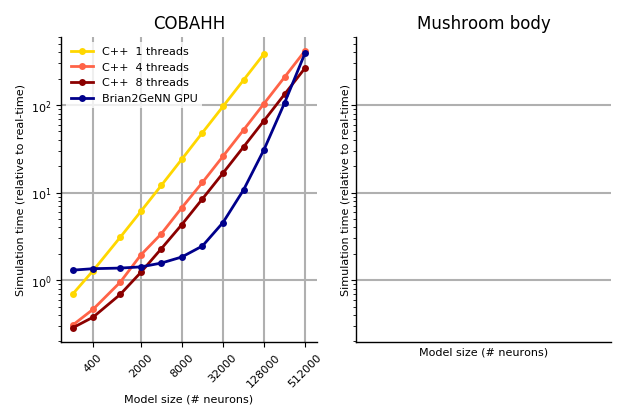
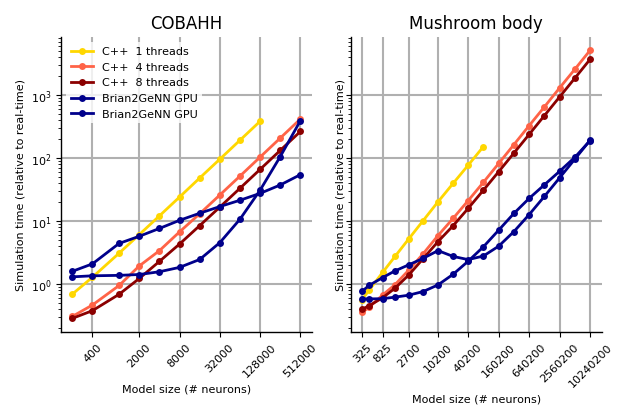
Adapted benchmarks to run genn only and in pre-synaptic parallelization mode. This is a bit messy as I just overwrote the run_all and run_benchmarks_genn scripts with slight modifications. @mstimberg , eventually we might want to clean this up. Needs the most recent expose_blocksize_prefs branch of 

Changed region(s): [[0.0, 0.031, 0.9651, 0.9618], [0.6333, 0.9308, 0.8746, 0.9618]]

diff --git a/plot_benchmarks.py b/plot_benchmarks.py
@@ -14,8 +14,14 @@ directory = None  # replace this or pass the directory as a command line arg
 if directory is None:
     if len(sys.argv) == 2:
         directory = sys.argv[1]
+        compareplot = False
     else:
-        raise ValueError('Need the directory name as an argument')
+        if len(sys.argv) == 3:
+            directory = sys.argv[1]
+            directory2 = sys.argv[2]
+            compareplot= True
+        else:
+            raise ValueError('Need the directory name as an argument')
 
 
 def load_benchmark(directory, fname):
@@ -272,114 +278,169 @@ def plot_detail_comparison(benchmarks):
     return fig
 
 if __name__ == '__main__':
-    COBA_full = load_benchmark(directory, 'benchmarks_COBAHH.txt')
-    Mbody_full = load_benchmark(directory, 'benchmarks_Mbody_example.txt')
+    if not compareplot:
+        COBA_full = load_benchmark(directory, 'benchmarks_COBAHH.txt')
+        Mbody_full = load_benchmark(directory, 'benchmarks_Mbody_example.txt')
+        
+        for with_monitor in [True, False]:
+            monitor_suffix = '' if with_monitor else '_no_monitor'
+            # COBA with linear scaling
+            COBA = mean_and_std_fixed_time(COBA_full, monitor=with_monitor)
+            COBA32 = mean_and_std_fixed_time(COBA_full, monitor=with_monitor,
+                                             float_dtype='float32')
+            # Mushroom body
+            Mbody = mean_and_std_fixed_time(Mbody_full, monitor=False)
+            Mbody32 = mean_and_std_fixed_time(Mbody_full, monitor=False,
+                                              float_dtype='float32')
 
-    for with_monitor in [True, False]:
-        monitor_suffix = '' if with_monitor else '_no_monitor'
+            for COBA_benchmark, Mbody_benchmark, suffix in [(COBA, Mbody, ''),
+                                                            (COBA32, Mbody32, ' single precision')]:
+                # Total time (including compilation)
+                fig, (ax_left, ax_right) = plt.subplots(1, 2, sharey='row',
+                                                        figsize=(6.3, 6.3 * .666))
+                plot_total(COBA_benchmark, ax_left, legend=True)
+                ax_left.set_title('COBAHH%s' % suffix)
+                plot_total(Mbody_benchmark, ax_right, legend=False)
+                ax_right.set_title('Mushroom body%s' % suffix)
+                plt.tight_layout()
+                fig.savefig(os.path.join(directory, 'total_runtime%s%s%s' % (monitor_suffix,
+                                                                             suffix,
+                                                                             FIGURE_EXTENSION)))
+                
+                # Runtime relative to realtime
+                fig, (ax_left, ax_right) = plt.subplots(1, 2, sharey='row',
+                                                        figsize=(6.3, 6.3 * .666))
+                plot_total(COBA_benchmark, ax_left, legend=True, plot_what='duration_run_rel',
+                           axis_label='Simulation time (relative to real-time)')
+                ax_left.set_title('COBAHH')
+                plot_total(Mbody_benchmark, ax_right, legend=False, plot_what='duration_run_rel',
+                           axis_label='Simulation time (relative to real-time)')
+                ax_right.set_title('Mushroom body')
+                plt.tight_layout()
+                fig.savefig(os.path.join(directory, 'simulation_time_only%s%s%s' % (monitor_suffix,
+                                                                                    suffix,
+                                                                                    FIGURE_EXTENSION)))
+
+
+                # TODO: This is a bit redundant...
+                max_threads = COBA_full.loc[COBA_full['device'] == 'cpp_standalone']['n_threads'].max()
+                for name, dev, threads in [('cpp', 'cpp_standalone', max_threads),
+                                           ('GeNN GPU', 'genn', 0 )]:
+                    subset = COBA_full.loc[(COBA_full['device'] == dev) &
+                                           (COBA_full['n_threads'] == threads)]
+                    grouped = subset.groupby(['n_neurons', 'float_dtype', 'with_monitor'])
+                    COBA_all = grouped.agg([np.min, np.mean, np.std]).reset_index()
+                    
+                    subset = Mbody_full.loc[(Mbody_full['device'] == dev) &
+                                            (Mbody_full['n_threads'] == threads)]
+                    grouped = subset.groupby(['n_neurons', 'float_dtype', 'with_monitor'])
+                    Mbody_all = grouped.agg([np.min, np.mean, np.std]).reset_index()
+                    
+                    fig = plot_detail_comparison(COBA_all)
+                    fig.savefig(os.path.join(directory, 'COBA_detail_comparison%s' % FIGURE_EXTENSION))
+                    
+                    fig = plot_detail_comparison(Mbody_all)
+                    fig.savefig(
+                        os.path.join(directory, 'Mbody_detail_comparison%s' % FIGURE_EXTENSION))
+                    
+                    for benchmarks, name in [(COBA, 'COBAHH'),
+                                             (Mbody, 'Mbody'),
+                                             (COBA32, 'COBAHH single precision'),
+                                             (Mbody32, 'Mbody single precision')]:
+                        # We use the maximum number of threads for which we have data
+                        print(benchmarks)
+                        max_threads = benchmarks.loc[benchmarks['device'] == 'cpp_standalone']['n_threads'].max()
+                        
+                        fig, (ax_left, ax_right) = plt.subplots(1, 2, sharey='row',
+                                                                figsize=(6.3, 6.3 * .666))
+                        GeNN_GPU = benchmarks.loc[(benchmarks['device'] == 'genn') &
+                                                  (benchmarks['n_threads'] == 0)]
+                        if len(GeNN_GPU):
+                            plot_detailed_times(GeNN_GPU, ax_left, legend=True)
+                            inside_title(ax_left, '%s (Brian2GeNN GPU)' % name)
+                        else:
+                            ax_left.axis('off')
+                            cpp_threads = benchmarks.loc[(benchmarks['device'] == 'cpp_standalone') &
+                                                         (benchmarks['n_threads'] == max_threads)]
+                            if len(cpp_threads):
+                                plot_detailed_times(cpp_threads, ax_right)
+                                inside_title(ax_right, '%s (C++ %d threads)' % (name, max_threads))
+                            else:
+                                ax_right.axis('off')
+                                plt.tight_layout()
+                                if len(GeNN_GPU) or len(cpp_threads):
+                                    fig.savefig(os.path.join(directory,
+                                                             'detailed_runtime_%s%s%s' % (name,
+                                                                                          monitor_suffix,
+                                                                                          FIGURE_EXTENSION)))
+                                    
+                                    fig, (ax_left, ax_right) = plt.subplots(1, 2, sharey='row',
+                                                                            figsize=(6.3, 6.3 * .666))
+                                    if len(GeNN_GPU):
+                                        plot_detailed_times_stacked(GeNN_GPU, ax_left, legend=True)
+                                        inside_title(ax_left, '%s (Brian2GeNN GPU)' % name)
+                                    else:
+                                        ax_left.axis('off')
+                                        if len(cpp_threads):
+                                            plot_detailed_times_stacked(cpp_threads, ax_right)
+                                            inside_title(ax_right, '%s (C++ %d threads)' % (name, max_threads))
+                                        else:
+                                            ax_right.axis('off')
+                                            plt.tight_layout()
+                                            if len(GeNN_GPU) or len(cpp_threads):
+                                                fig.savefig(os.path.join(directory,
+                                                                         'detailed_runtime_relative_%s%s%s' % (name,
+                                                                                                               monitor_suffix,
+                                                                               FIGURE_EXTENSION)))
+    else: #compareplot
+        COBA_full = load_benchmark(directory, 'benchmarks_COBAHH.txt')
+        Mbody_full = load_benchmark(directory, 'benchmarks_Mbody_example.txt')
+        COBA_full_cmp = load_benchmark(directory2, 'benchmarks_COBAHH.txt')
+        Mbody_full_cmp = load_benchmark(directory2, 'benchmarks_Mbody_example.txt')
+
         # COBA with linear scaling
-        COBA = mean_and_std_fixed_time(COBA_full, monitor=with_monitor)
-        COBA32 = mean_and_std_fixed_time(COBA_full, monitor=with_monitor,
+        COBA = mean_and_std_fixed_time(COBA_full, monitor=True)
+        COBA32 = mean_and_std_fixed_time(COBA_full, monitor=True,
+                                         float_dtype='float32')
+        COBA_cmp = mean_and_std_fixed_time(COBA_full_cmp, monitor=True)
+        COBA32_cmp = mean_and_std_fixed_time(COBA_full_cmp, monitor=True,
                                          float_dtype='float32')
         # Mushroom body
-        Mbody = mean_and_std_fixed_time(Mbody_full, monitor=with_monitor)
-        Mbody32 = mean_and_std_fixed_time(Mbody_full, monitor=with_monitor,
-                                          float_dtype='float32')
+        Mbody = mean_and_std_fixed_time(Mbody_full, monitor=False)
+        Mbody32 = mean_and_std_fixed_time(Mbody_full, monitor=False,
+                                              float_dtype='float32')
+        Mbody_cmp = mean_and_std_fixed_time(Mbody_full_cmp, monitor=False)
+        Mbody32_cmp = mean_and_std_fixed_time(Mbody_full_cmp, monitor=False,
+                                              float_dtype='float32')
 
-        for COBA_benchmark, Mbody_benchmark, suffix in [(COBA, Mbody, ''),
-                                                        (COBA32, Mbody, ' single precision')]:
-            # Total time (including compilation)
-            fig, (ax_left, ax_right) = plt.subplots(1, 2, sharey='row',
-                                                    figsize=(6.3, 6.3 * .666))
-            plot_total(COBA_benchmark, ax_left, legend=True)
-            ax_left.set_title('COBAHH%s' % suffix)
-            plot_total(Mbody_benchmark, ax_right, legend=False)
-            ax_right.set_title('Mushroom body%s' % suffix)
-            plt.tight_layout()
-            fig.savefig(os.path.join(directory, 'total_runtime%s%s%s' % (monitor_suffix,
-                                                                         suffix,
-                                                                         FIGURE_EXTENSION)))
-
-            # Runtime relative to realtime
-            fig, (ax_left, ax_right) = plt.subplots(1, 2, sharey='row',
-                                                    figsize=(6.3, 6.3 * .666))
-            plot_total(COBA_benchmark, ax_left, legend=True, plot_what='duration_run_rel',
-                       axis_label='Simulation time (relative to real-time)')
-            ax_left.set_title('COBAHH')
-            plot_total(Mbody_benchmark, ax_right, legend=False, plot_what='duration_run_rel',
-                       axis_label='Simulation time (relative to real-time)')
-            ax_right.set_title('Mushroom body')
-            plt.tight_layout()
-            fig.savefig(os.path.join(directory, 'simulation_time_only%s%s%s' % (monitor_suffix,
-                                                                                suffix,
-                                                                                FIGURE_EXTENSION)))
-
-    # TODO: This is a bit redundant...
-    max_threads = COBA_full.loc[COBA_full['device'] == 'cpp_standalone']['n_threads'].max()
-    for name, dev, threads in [('cpp', 'cpp_standalone', max_threads),
-                               ('GeNN GPU', 'genn', 0 )]:
-        subset = COBA_full.loc[(COBA_full['device'] == dev) &
-                               (COBA_full['n_threads'] == threads)]
-        grouped = subset.groupby(['n_neurons', 'float_dtype', 'with_monitor'])
-        COBA_all = grouped.agg([np.min, np.mean, np.std]).reset_index()
-
-        subset = Mbody_full.loc[(Mbody_full['device'] == dev) &
-                                (Mbody_full['n_threads'] == threads)]
-        grouped = subset.groupby(['n_neurons', 'float_dtype', 'with_monitor'])
-        Mbody_all = grouped.agg([np.min, np.mean, np.std]).reset_index()
-
-        fig = plot_detail_comparison(COBA_all)
-        fig.savefig(os.path.join(directory, 'COBA_detail_comparison%s' % FIGURE_EXTENSION))
-
-        fig = plot_detail_comparison(Mbody_all)
-        fig.savefig(
-            os.path.join(directory, 'Mbody_detail_comparison%s' % FIGURE_EXTENSION))
-
-        for benchmarks, name in [(COBA, 'COBAHH'),
-                                 (Mbody, 'Mbody'),
-                                 (COBA32, 'COBAHH single precision'),
-                                 (Mbody32, 'Mbody single precision')]:
-            # We use the maximum number of threads for which we have data
-            max_threads = benchmarks.loc[benchmarks['device'] == 'cpp_standalone']['n_threads'].max()
-
-            fig, (ax_left, ax_right) = plt.subplots(1, 2, sharey='row',
-                                                    figsize=(6.3, 6.3 * .666))
-            GeNN_GPU = benchmarks.loc[(benchmarks['device'] == 'genn') &
-                                      (benchmarks['n_threads'] == 0)]
-            if len(GeNN_GPU):
-                plot_detailed_times(GeNN_GPU, ax_left, legend=True)
-                inside_title(ax_left, '%s (Brian2GeNN GPU)' % name)
-            else:
-                ax_left.axis('off')
-            cpp_threads = benchmarks.loc[(benchmarks['device'] == 'cpp_standalone') &
-                                         (benchmarks['n_threads'] == max_threads)]
-            if len(cpp_threads):
-                plot_detailed_times(cpp_threads, ax_right)
-                inside_title(ax_right, '%s (C++ %d threads)' % (name, max_threads))
-            else:
-                ax_right.axis('off')
-            plt.tight_layout()
-            if len(GeNN_GPU) or len(cpp_threads):
-                fig.savefig(os.path.join(directory,
-                                         'detailed_runtime_%s%s%s' % (name,
-                                                                      monitor_suffix,
-                                                                      FIGURE_EXTENSION)))
-
-            fig, (ax_left, ax_right) = plt.subplots(1, 2, sharey='row',
-                                                    figsize=(6.3, 6.3 * .666))
-            if len(GeNN_GPU):
-                plot_detailed_times_stacked(GeNN_GPU, ax_left, legend=True)
-                inside_title(ax_left, '%s (Brian2GeNN GPU)' % name)
-            else:
-                ax_left.axis('off')
-            if len(cpp_threads):
-                plot_detailed_times_stacked(cpp_threads, ax_right)
-                inside_title(ax_right, '%s (C++ %d threads)' % (name, max_threads))
-            else:
-                ax_right.axis('off')
-            plt.tight_layout()
-            if len(GeNN_GPU) or len(cpp_threads):
-                fig.savefig(os.path.join(directory,
-                                         'detailed_runtime_relative_%s%s%s' % (name,
-                                                                               monitor_suffix,
-                                                                               FIGURE_EXTENSION)))
+        for COBA_benchmark, Mbody_benchmark, COBA_b2, Mbody_b2, suffix in [(COBA, Mbody, COBA_cmp, Mbody_cmp, ' cmp'),
+                                                            (COBA32, Mbody32, COBA32_cmp, Mbody32_cmp, ' cmp single precision')]:
+                # Total time (including compilation)
+                fig, (ax_left, ax_right) = plt.subplots(1, 2, sharey='row',
+                                                        figsize=(6.3, 6.3 * .666))
+                plot_total(COBA_benchmark, ax_left, legend=True)
+                ax_left.set_title('COBAHH%s' % suffix)
+                plot_total(COBA_b2, ax_left, legend=True)
+                ax_left.set_title('COBAHH pre %s' % suffix)
+                plot_total(Mbody_benchmark, ax_right, legend=False)
+                ax_right.set_title('Mushroom body%s' % suffix)
+                plot_total(Mbody_b2, ax_right, legend=False)
+                ax_right.set_title('Mushroom body pre %s' % suffix)
+                plt.tight_layout()
+                fig.savefig(os.path.join(directory, 'total_runtime%s%s' % (suffix, FIGURE_EXTENSION)))
+                
+                # Runtime relative to realtime
+                fig, (ax_left, ax_right) = plt.subplots(1, 2, sharey='row',
+                                                        figsize=(6.3, 6.3 * .666))
+                plot_total(COBA_benchmark, ax_left, legend=True, plot_what='duration_run_rel',
+                           axis_label='Simulation time (relative to real-time)')
+                plot_total(COBA_b2, ax_left, legend=True, plot_what='duration_run_rel',
+                           axis_label='Simulation time (relative to real-time)')
+                ax_left.set_title('COBAHH')
+                plot_total(Mbody_benchmark, ax_right, legend=False, plot_what='duration_run_rel',
+                           axis_label='Simulation time (relative to real-time)')
+                plot_total(Mbody_b2, ax_right, legend=False, plot_what='duration_run_rel',
+                           axis_label='Simulation time (relative to real-time)')
+                ax_right.set_title('Mushroom body')
+                plt.tight_layout()
+                fig.savefig(os.path.join(directory, 'simulation_time_only%s%s' % (suffix, FIGURE_EXTENSION)))

diff --git a/benchmark_utils.py b/benchmark_utils.py
@@ -35,6 +35,7 @@ def prepare_benchmark(argv):
     if config['device'] == 'genn':
         prefs.devices.genn.auto_choose_device = False
         prefs.devices.genn.default_device = 0
+        prefs.devices.genn.synapse_span_type = 'PRESYNAPTIC'
         if config['threads'] > 0:
             warnings.warn('Brian2GeNN cannot run multi-threaded, setting '
                           'number of threads to 0')
